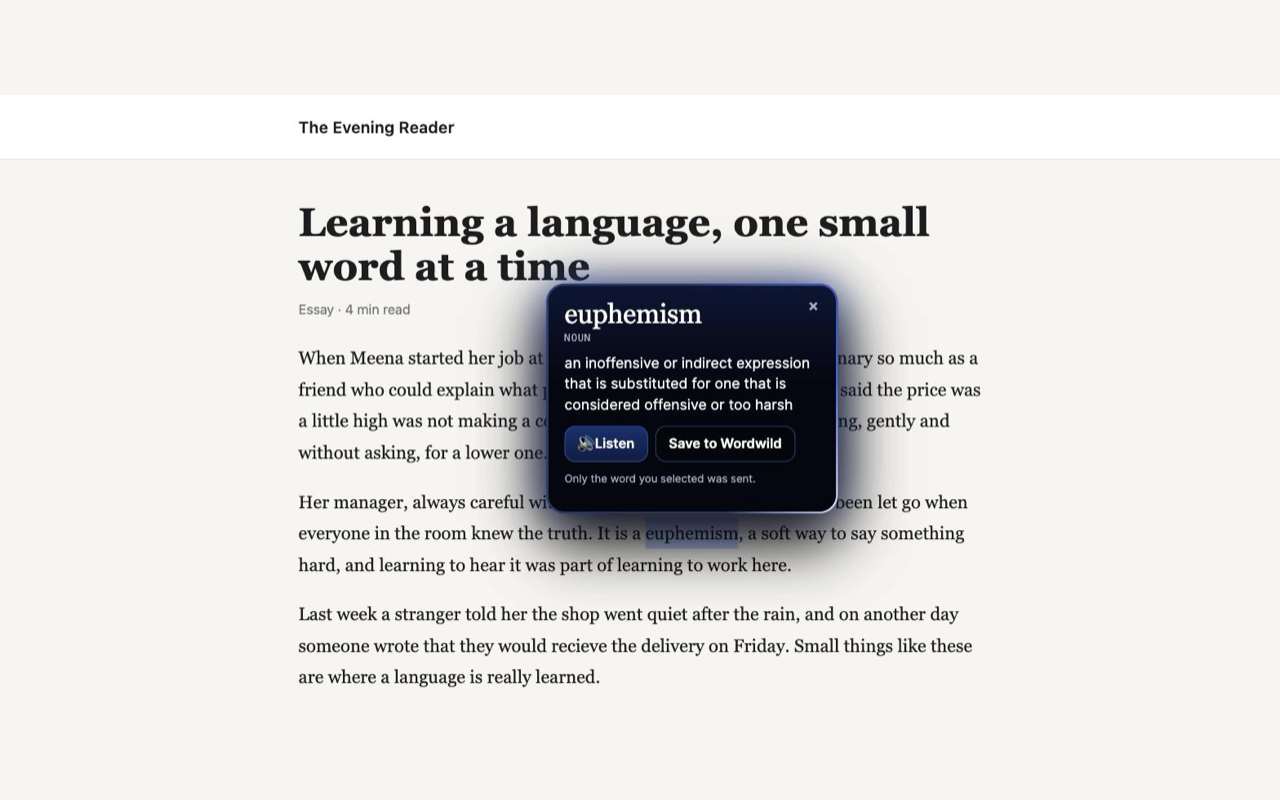
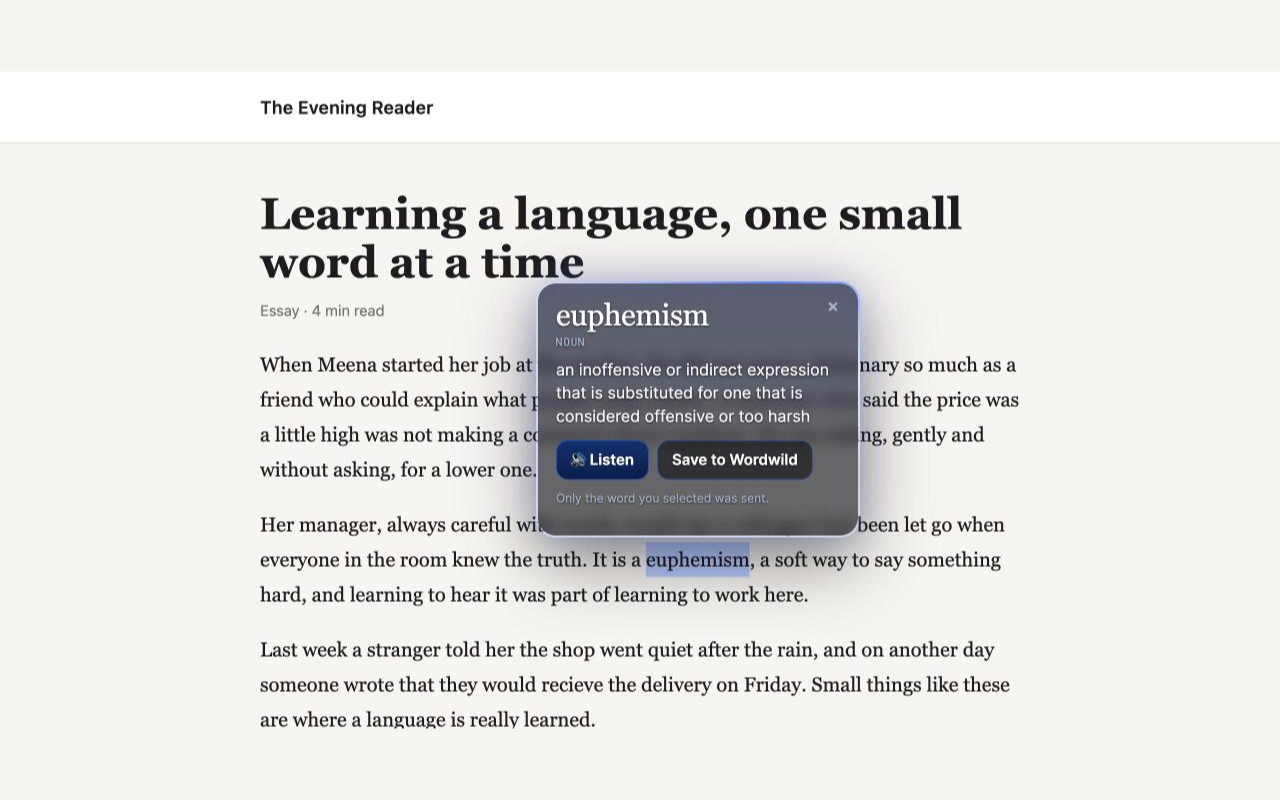
Extension 1.0.1: frosted glass card (blur works now), retaken store screenshots

Changed region(s): [[0.1875, 0.2188, 0.7812, 0.9062], [0.1875, 0.125, 0.375, 0.1875]]

diff --git a/extension/test/shots-file.html b/extension/test/shots-file.html
@@ -1,0 +1,25 @@
+<!doctype html><meta charset="utf-8"><title>Screenshot page</title>
+<style>body{margin:0;background:#f7f5f0;color:#1d1d1f;font:20px/1.75 Georgia,"Times New Roman",serif}
+header{background:#fff;border-bottom:1px solid #e3ded3;padding:18px 0}header div,article{max-width:760px;margin:0 auto;padding:0 24px}
+header b{font:600 18px system-ui,sans-serif;letter-spacing:.02em}h1{font-size:44px;line-height:1.1;margin:46px 0 8px}.by{font:15px system-ui,sans-serif;color:#77726a;margin-bottom:28px}
+::selection{background:#b9caff}</style>
+<header><div><b>The Evening Reader</b></div></header>
+<article><h1>Learning a language, one small word at a time</h1><p class="by">Essay · 4 min read</p>
+<p>When Meena started her job at the market, she did not need a dictionary so much as a friend who could explain what people really meant. A customer who said the price was <span id="w1">a little high</span> was not making a comment about numbers. He was asking, gently and without asking, for a lower one.</p>
+<p>Her manager, always careful with words, would say a colleague had been <span id="w2">let go</span> when everyone in the room knew the truth. It is a <span id="w3">euphemism</span>, a soft way to say something hard, and learning to hear it was part of learning to work here.</p>
+<p>Last week a stranger told her the shop <span id="w4">went</span> quiet after the rain, and on another day someone wrote that they would <span id="w5">recieve</span> the delivery on Friday. Small things like these are where a language is really learned.</p>
+<p>Finding it <span id="w6">serendipity</span> she had met her neighbour, Meena decided to keep a list.</p></article>
+<script>
+const __attach = Element.prototype.attachShadow; Element.prototype.attachShadow = function (i) { const r = __attach.call(this, { ...i, mode: "open" }); window.__sr = r; return r; };   // test only: lets the check read the card's styles
+const DATA = JSON.parse(new URLSearchParams(location.search).has("x") ? "{}" : "{}");
+Promise.resolve({"euphemism":{"status":"found","matched":"euphemism","senses":[{"id":"euphemism%1:10:00::","lemma":"euphemism","pos":"noun","simple":"an inoffensive or indirect expression that is substituted for one that is considered offensive or too harsh","definition":"an inoffensive or indirect expression that is substituted for one that is considered offensive or too harsh","example":"","hi":"","ai":false,"note":""}]},"went":{"status":"found","matched":"go","senses":[{"id":"go%2:38:00::","lemma":"go","pos":"verb","simple":"change location; move, travel, or proceed, also metaphorically","definition":"change location; move, travel, or proceed, also metaphorically","example":"How fast does your new car go?","hi":"","ai":false,"note":"“went” is a form of “go”."},{"id":"go%2:41:00::","lemma":"go","pos":"verb","simple":"follow a procedure or take a course","definition":"follow a procedure or take a course","example":"We should go farther in this matter","hi":"","ai":false,"note":"“went” is a form of “go”."},{"id":"go%2:38:01::","lemma":"go","pos":"verb","simple":"move away from a place into another direction","definition":"move away from a place into another direction","example":"Go away before I start to cry","hi":"","ai":false,"note":"“went” is a form of “go”."},{"id":"go%2:30:04::","lemma":"go","pos":"verb","simple":"enter or assume a certain state or condition","definition":"enter or assume a certain state or condition","example":"He became annoyed when he heard the bad news","hi":"","ai":false,"note":"“went” is a form of “go”."},{"id":"go%3:00:00::","lemma":"go","pos":"adjective","simple":"functioning correctly and ready for action","definition":"functioning correctly and ready for action","example":"all systems are go","hi":"","ai":false,"note":"“went” is a form of “go”."},{"id":"go%1:28:00::","lemma":"go","pos":"noun","simple":"a time period for working (after which you will be relieved by someone else)","definition":"a time period for working (after which you will be relieved by someone else)","example":"it's my go","hi":"","ai":false,"note":"“went” is a form of “go”."},{"id":"go%1:06:00::","lemma":"go","pos":"noun","simple":"street names for methylenedioxymethamphetamine","definition":"street names for methylenedioxymethamphetamine","example":"","hi":"","ai":false,"note":"“went” is a form of “go”."},{"id":"go%1:04:01::","lemma":"go","pos":"noun","simple":"a usually brief attempt","definition":"a usually brief attempt","example":"he took a crack at it","hi":"","ai":false,"note":"“went” is a form of “go”."}]},"recieve":{"status":"unknown","suggestions":["receive","relieve","reprieve","recite"],"hint":""},"serendipity":{"status":"found","matched":"serendipity","senses":[{"id":"serendipity%1:19:00::","lemma":"serendipity","pos":"noun","simple":"good luck in making unexpected and fortunate discoveries","definition":"good luck in making unexpected and fortunate discoveries","example":"","hi":"","ai":false,"note":""}]}}).then(all => {
+  window.chrome = { storage: { sync: { get: async () => ({ trigger: "any" }) }, onChanged: { addListener() {} } },
+    runtime: { sendMessage: async (m) => m.type === "base" ? { base: "https://wordwild-seven.vercel.app" } : (all[m.q] || { status: "unknown", suggestions: [] }) } };
+  const s = document.createElement("script"); s.src = "../shared.js"; s.onload = () => { const c = document.createElement("script"); c.src = "../content.js?" + Date.now(); c.onload = go; document.body.appendChild(c); }; document.body.appendChild(s);
+});
+function go() {
+  const id = new URLSearchParams(location.search).get("w") || "w3"; const el = document.getElementById(id); if (!el) return;
+  const r = document.createRange(); r.selectNodeContents(el); getSelection().removeAllRanges(); getSelection().addRange(r);
+  setTimeout(() => dispatchEvent(new KeyboardEvent("keydown", { key: "e", bubbles: true, cancelable: true })), 300);
+}
+</script>

diff --git a/extension/content.js b/extension/content.js
@@ -14,10 +14,10 @@
     shadow.innerHTML = `<style>
       *{box-sizing:border-box}
       /* Frosted glass: the page shows through, blurred, so the text on the card stays readable. The moving light is a thin ring drawn on top. */
-      .beam{position:fixed;padding:2px;border-radius:20px;width:324px;max-width:calc(100vw - 8px);box-shadow:0 24px 70px rgba(0,0,0,.45),0 0 40px rgba(50,90,220,.28);animation:open .42s cubic-bezier(.34,1.45,.64,1) both}
+      .beam{position:fixed;padding:2px;border-radius:20px;width:324px;max-width:calc(100vw - 8px);box-shadow:0 24px 70px rgba(0,0,0,.45),0 0 40px rgba(50,90,220,.28);animation:open .42s cubic-bezier(.34,1.45,.64,1) backwards}
       .ring{position:absolute;inset:0;z-index:2;pointer-events:none;border-radius:20px;padding:2px;overflow:hidden;background:rgba(120,150,235,.32);-webkit-mask:linear-gradient(#000 0 0) content-box,linear-gradient(#000 0 0);-webkit-mask-composite:xor;mask-composite:exclude}
       .ring::before{content:"";position:absolute;left:50%;top:50%;width:260%;aspect-ratio:1;translate:-50% -50%;background:conic-gradient(from 0deg,transparent 0 55%,rgba(80,120,255,.95) 78%,#dfe7ff 90%,transparent 100%);animation:spin 3.6s linear infinite}
-      .c{position:relative;font:15px/1.45 Inter,system-ui,-apple-system,"Segoe UI",sans-serif;color:#f3f5fb;text-shadow:0 1px 2px rgba(0,0,0,.55);background:linear-gradient(180deg,rgba(11,22,54,var(--g1,.6)),rgba(5,7,15,var(--g2,.5)) 65%);-webkit-backdrop-filter:blur(2px) saturate(1.3);backdrop-filter:blur(2px) saturate(1.3);border-radius:18px;padding:16px 18px;outline:none}
+      .c{position:relative;font:15px/1.45 Inter,system-ui,-apple-system,"Segoe UI",sans-serif;color:#f3f5fb;text-shadow:0 1px 2px rgba(0,0,0,.55);background:linear-gradient(180deg,rgba(11,22,54,var(--g1,.6)),rgba(5,7,15,var(--g2,.5)) 65%);-webkit-backdrop-filter:blur(7px) saturate(1.4);backdrop-filter:blur(7px) saturate(1.4);border-radius:18px;padding:16px 18px;outline:none}
       .w{font:400 30px/1.05 "Instrument Serif",Georgia,"Times New Roman",serif;letter-spacing:-.01em;color:#fff;margin:0}
       .p{font:500 11px/1.4 "IBM Plex Mono",ui-monospace,Menlo,monospace;text-transform:uppercase;letter-spacing:.07em;color:#a4aec6;margin:4px 0 8px}
       .m{margin:6px 0;font-size:16px}.e{color:#a4aec6;font-size:13px;margin:6px 0}.h{margin:6px 0;font-size:15px}
@@ -73,7 +73,7 @@
     card.innerHTML = html;
     const pos = S.placePopup(rect, innerWidth, innerHeight, 324, wrap.offsetHeight || 190); wrap.style.left = pos.left + "px"; wrap.style.top = pos.top + "px";
     const light = pageIsLight(pos.left + 162, pos.top + 90);   // darker tint over light pages, more see-through over dark ones
-    card.style.setProperty("--g1", light ? ".56" : ".36"); card.style.setProperty("--g2", light ? ".5" : ".3");
+    card.style.setProperty("--g1", light ? ".68" : ".4"); card.style.setProperty("--g2", light ? ".6" : ".32");
     card.querySelector(".x").onclick = close;
     card.querySelectorAll("[data-sug]").forEach(b => b.addEventListener("click", () => open(b.dataset.sug, rect)));
     card.querySelector('[data-a="say"]')?.addEventListener("click", () => speak(`${res.senses[i].lemma}. ${res.senses[i].simple}`));

diff --git a/extension/test/shots-frame.html b/extension/test/shots-frame.html
@@ -1,0 +1,1 @@
+<!doctype html><body style="margin:0"><iframe id="f" style="border:0;width:100vw;height:100vh"></iframe><script>f.src="shots.html"+location.search</script>

diff --git a/extension/store/LISTING.md b/extension/store/LISTING.md
@@ -1,6 +1,6 @@
 # Chrome Web Store listing: Wordwild (copy each block into the dashboard)
 
-Package: `node build-store.mjs` -> `dist/wordwild-extension-1.0.0.zip`
+Package: `node build-store.mjs` -> `dist/wordwild-extension-1.0.1.zip`
 Privacy policy URL: https://wordwild-seven.vercel.app/privacy
 Homepage / support URL: https://wordwild-seven.vercel.app
 Category: Education      Language: English
